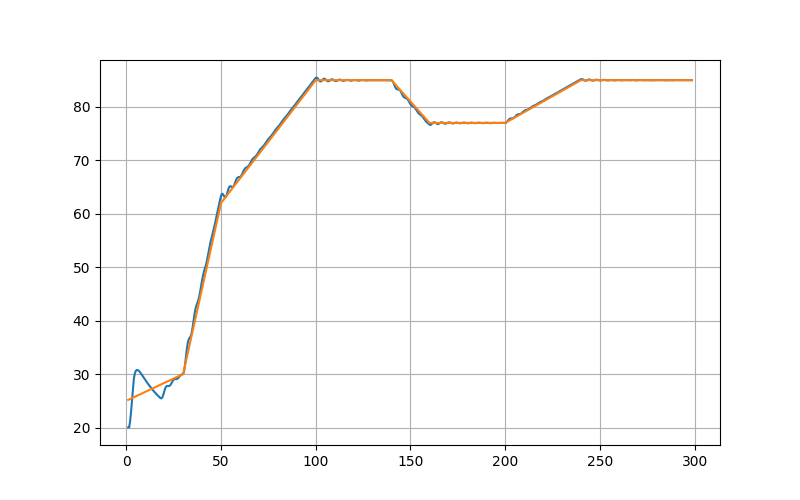
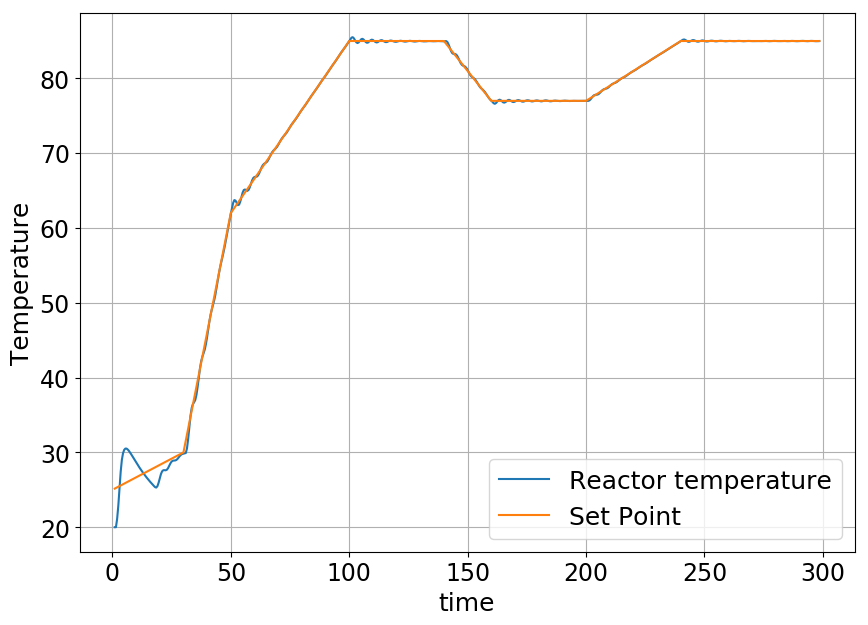
cleaning and adding images

diff --git a/main.py b/main.py
@@ -6,17 +6,17 @@ import BatchReactor as Reactor
 import Simple_PID
 
 
-def plotter(name, times, plot_vals1, plot_vals2, label1, label2, ylab, xlab = 'time'):
+def plotter(name, times, plot_vals1, plot_vals2, label1, label2, ylab, xlab = 'time', colors = ['#1f77b4', '#ff7f0e']):
     plt.figure(figsize=(10, 7))
-    plt.plot(times, plot_vals1, label = label1)
-    plt.plot(times, plot_vals2, label = label2)
+    plt.plot(times, plot_vals1, label = label1, color = colors[0])
+    plt.plot(times, plot_vals2, label = label2, color = colors[1])
     plt.xlabel(xlab, fontsize=18)
     plt.ylabel(ylab, fontsize=18)
     plt.xticks(fontsize=17)
     plt.yticks(fontsize=17)
     plt.legend(fontsize=18)
     plt.grid()
-    plt.savefig(name+".png")
+    plt.savefig(name+".png", bbox_inches='tight')
 
 points = [0, 30, 50, 100, 140, 160, 200, 240, 300]
 signal = [25, 30, 62, 85, 85, 77, 77, 85, 85]
@@ -30,11 +30,13 @@ mmax = 299
 interval = 0.5
 
 def loop(signal_function, mmax = mmax, interval = interval):
-    TR = [];    TJ = [];    TJSP = [];    
-    QJ = [];    QR = [];    
-    MA = [];    MB = [];    MC = [];    MD = [];    
+    
+    TR = [];    TJ = [];    TJSP = []   
+    QJ = [];    QR = []
+    MA = [];    MB = [];    MC = [];    MD = []
     Set_point = [];    Controlled_var = []
 
+    # variables initialization
     ek = 0
     ek_1 = 0
     ek_2 = 0
@@ -44,7 +46,7 @@ def loop(signal_function, mmax = mmax, interval = interval):
     M = R.get_M()
     PID = Simple_PID.Simple_PID()
 
-    for i, k in enumerate(np.arange(1, mmax, interval)):
+    for _, k in enumerate(np.arange(1, mmax, interval)):
         
         R.dynamics(Tr, Tj, Tjsp, M, interval)
         (Tr, Tj) = R.get_T()
@@ -91,18 +93,19 @@ def loop(signal_function, mmax = mmax, interval = interval):
 
 
 TJ, TR, QJ, QR, TJSP, Set_point, Controlled_var, MA, MB, MC, MD =  loop(constant_signal)
-#TJ1, TR1, QJ1, QR1, TJSP1, Set_point1, Controlled_var1, MA1, MB1, MC1, MD1 =  loop(f_signal)
+TJ1, TR1, QJ1, QR1, TJSP1, Set_point1, Controlled_var1, MA1, MB1, MC1, MD1 =  loop(f_signal)
 
-plotter("reactor_temperature", np.arange(1,mmax,interval), TR, \
+plotter("reactor_temperature1", np.arange(1,mmax,interval), TR, \
         constant_signal(np.arange(1,mmax,interval)), "Reactor temperature", \
         "Set Point", "Temperature", xlab = 'time')
 
-"""plotter("reactor_temperature1", np.arange(1,mmax,interval), TR1, \
-        f_signal1(np.arange(1,mmax,interval)), "Reactor temperature", \
+plotter("reactor_temperature", np.arange(1,mmax,interval), TR1, \
+        f_signal(np.arange(1,mmax,interval)), "Reactor temperature", \
         "Set Point", "Temperature", xlab = 'time')
 
-plotter("MA_MB moles", np.arange(1,mmax,interval), MA, MB, \
+plotter("MA_MB_moles1", np.arange(1,mmax,interval), MA1, MB1, \
         "MA", "MB", ylab = "kmol", xlab = 'time')
 
-plotter("MC_MD moles", np.arange(1,mmax,interval), MC, MD, \
-        "MA", "MB", ylab = "kmol", xlab = 'time')"""
+plotter("MC_MD_moles1", np.arange(1,mmax,interval), MC1, MD1, \
+        "MC", "MD", ylab = "kmol", xlab = 'time', colors = ['green', 'orange'])
+

diff --git a/BatchReactor.py b/BatchReactor.py
@@ -36,6 +36,7 @@ class Reactor():
         self.Mb = 12
         self.Mc = 0
         self.Md = 0
+        
         self.Tr = 20
         self.Tj = 20
 
